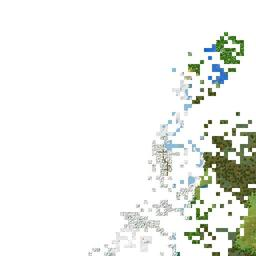
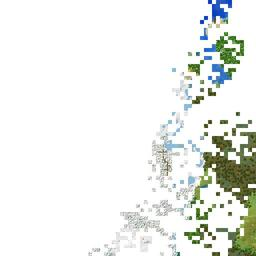
map update

diff --git a/public/unmined/unmined.map.regions.js b/public/unmined/unmined.map.regions.js
@@ -1,6 +1,6 @@
 var UnminedRegions = [
-{ x: 0, z: 0, m: new Uint32Array([1,0,0,0,0,0,0,0,0,0,0,0,0,0,0,0,0,0,0,0,0,0,0,0,0,0,0,0,0,0,0,0,0,0,0,0,0,0,0,0,0,0,0,0,0,0,0,0,0,0,0,0,0,0,0,0,0,0,0,0,0,0,0,0,0,0,0,0,0,0,0,0,0,0,0,0,0,0,0,0,0,0,0,0,0,0,0,0,0,0,0,0,0,0,0,0,0,0,0,0,0,0,0,0,0,0,0,0,0,0,0,0,0,0,0,0,0,0,0,0,0,0,0,0,0,0,0,0,0,0,0,0,0,0,0,0,0,0,0,0,0,0,0,0,0,0,0,0,0,0,0,0,0,0,0,0,0,0,0,0,0,0,0,0,0,0,0,0,0,0,0,0,0,0,0,0,0,0,0,0,0,0,0,0,0,0,0,0,0,0,0,0,0,0,0,0,0,0,0,0,0,0,0,0,0,0,0,0,0,0,0,0,0,0,0,0,0,0,0,0,0,0,0,0,0,0,0,0,0,0,0,0,0,0,0,0,0,0,0,0,0,0,0,0,0,0,0,0,0,0,0,0,0,0,0,0]) },
-{ x: 0, z: -1, m: new Uint32Array([0,0,0,0,0,0,0,0,0,0,0,0,0,0,0,0,0,0,0,0,0,0,0,0,0,0,0,0,0,0,1,3,0,0,0,0,0,0,0,0,0,0,0,0,0,0,0,0,0,0,0,0,0,0,0,0,0,0,0,0,0,0,0,0,0,0,0,0,0,0,0,0,0,0,0,0,0,0,0,0,0,0,0,0,0,0,0,0,0,0,0,0,0,0,0,0,0,0,0,0,0,0,0,0,0,0,0,0,0,0,0,0,0,0,0,0,0,0,0,0,0,0,0,0,0,0,0,0,0,0,0,0,0,0,0,0,0,0,0,0,0,0,0,0,0,0,0,0,0,0,0,0,0,0,0,0,0,0,0,0,0,0,0,0,0,0,0,0,0,0,0,0,0,0,0,0,0,0,0,0,0,0,0,0,0,0,0,0,0,0,0,0,0,0,0,0,0,0,0,0,0,0,0,0,0,0,0,0,0,0,0,0,0,0,0,0,0,0,0,0,0,0,0,0,0,0,0,0,0,0,0,0,0,0,0,0,0,0,0,0,0,0,0,0,0,0,0,0,0,0,0,0,0,0,0,0]) },
+{ x: 0, z: 0, m: new Uint32Array([524289,0,0,0,0,0,0,0,0,0,0,0,0,0,0,0,0,0,786432,524288,0,0,0,0,0,0,0,0,0,0,0,0,0,0,0,0,0,0,0,0,0,0,0,0,0,0,0,0,0,0,0,0,0,0,0,0,0,0,0,0,0,0,0,0,0,0,0,0,0,0,0,0,0,0,0,0,0,0,0,0,0,0,0,0,0,0,0,0,0,0,0,0,0,0,0,0,0,0,0,0,0,0,0,0,0,0,0,0,0,0,0,0,0,0,0,0,0,0,0,0,0,0,0,0,0,0,0,0,0,0,0,0,0,0,0,0,0,0,0,0,0,0,0,0,0,0,0,0,0,0,0,0,0,0,0,0,0,0,0,0,0,0,0,0,0,0,0,0,0,0,0,0,0,0,0,0,0,0,0,0,0,0,0,0,0,0,0,0,0,0,0,0,0,0,0,0,0,0,0,0,0,0,0,0,0,0,0,0,0,0,0,0,0,0,0,0,0,0,0,0,0,0,0,0,0,0,0,0,0,0,0,0,0,0,0,0,0,0,0,0,0,0,0,0,0,0,0,0,0,0,0,0,0,0,0,0]) },
+{ x: 0, z: -1, m: new Uint32Array([0,0,0,0,0,0,0,0,0,0,0,0,0,0,0,0,0,0,0,0,0,0,0,0,0,0,0,0,2,3,1,3,0,0,0,0,0,0,0,0,0,0,0,0,0,0,0,0,0,0,0,0,0,0,0,0,0,0,0,0,0,0,0,0,0,0,0,0,0,0,0,0,0,0,0,0,0,0,0,0,0,0,0,0,0,0,0,0,0,0,0,0,0,0,0,0,0,0,0,0,0,0,0,0,0,0,0,0,0,0,0,0,0,0,0,0,0,0,0,0,0,0,0,0,0,0,0,0,0,0,0,0,0,0,0,0,0,0,0,0,0,0,0,0,0,0,0,0,0,0,0,0,0,0,0,0,0,0,0,0,0,0,0,0,0,0,0,0,0,0,0,0,0,0,0,0,0,0,0,0,0,0,0,0,0,0,0,0,0,0,0,0,0,0,0,0,0,0,0,0,0,0,0,0,0,0,0,0,0,0,0,0,0,0,0,0,0,0,0,0,0,0,0,0,0,0,0,0,0,0,0,0,0,0,0,0,0,0,0,0,0,0,0,0,0,0,0,0,0,0,0,0,0,0,0,0]) },
 { x: -1, z: 0, m: new Uint32Array([3221225472,2147483648,0,0,0,0,0,0,0,0,0,0,0,0,0,0,0,0,0,0,0,0,0,0,0,0,0,0,0,0,0,0,0,0,0,0,0,0,0,0,0,0,0,0,0,0,0,0,0,0,0,0,0,0,0,0,0,0,0,0,0,0,0,0,0,0,0,0,0,0,0,0,0,0,0,0,0,0,0,0,0,0,0,0,0,0,0,0,0,0,0,0,0,0,0,0,0,0,0,0,0,0,0,0,0,0,0,0,0,0,0,0,0,0,0,0,0,0,0,0,0,0,0,0,0,0,0,0,0,0,0,0,0,0,0,0,0,0,0,0,0,0,0,0,0,0,0,0,0,0,0,0,0,0,0,0,0,0,0,0,0,0,0,0,0,0,0,0,0,0,0,0,0,0,0,0,0,0,0,0,0,0,0,0,0,0,0,0,0,0,0,0,0,0,0,0,0,0,0,0,0,0,0,0,0,0,0,0,0,0,0,0,0,0,0,0,0,0,0,0,0,0,0,0,0,0,0,0,0,0,0,0,0,0,0,0,0,0,0,0,0,0,0,0,0,0,0,0,0,0,0,0,0,0,0,0]) },
-{ x: -1, z: -1, m: new Uint32Array([0,0,0,0,0,0,0,0,0,0,0,0,0,0,0,0,0,0,0,0,0,0,0,0,0,0,0,0,0,0,2147483648,3221225472,0,0,0,0,0,0,0,0,0,0,0,0,0,0,0,0,0,0,0,0,0,0,0,0,0,0,0,0,0,0,0,0,0,0,0,0,0,0,0,0,0,0,0,0,0,0,0,0,0,0,0,0,0,0,0,0,0,0,0,0,0,0,0,0,0,0,0,0,0,0,0,0,0,0,0,0,0,0,0,0,0,0,0,0,0,0,0,0,0,0,0,0,0,0,0,0,0,0,0,0,0,0,0,0,0,0,0,0,0,0,0,0,0,0,0,0,0,0,0,0,0,0,0,0,0,0,0,0,0,0,0,0,0,0,0,0,0,0,0,0,0,0,0,0,0,0,0,0,0,0,0,0,0,0,0,0,0,0,0,0,0,0,0,0,0,0,0,0,0,0,0,0,0,0,0,0,0,0,0,0,0,0,0,0,0,0,0,0,0,0,0,0,0,0,0,0,0,0,0,0,0,0,0,0,0,0,0,0,0,0,0,0,0,0,0,0,0,0,0,0,0,0,0,0]) },
+{ x: -1, z: -1, m: new Uint32Array([0,0,0,0,0,0,0,0,0,0,0,0,0,0,0,0,0,0,0,0,0,0,0,0,0,0,0,0,0,2147483648,2147483648,3221225472,0,0,0,0,0,0,0,0,0,0,0,0,0,0,0,0,0,0,0,0,0,0,0,0,0,0,0,0,0,0,0,0,0,0,0,0,0,0,0,0,0,0,0,0,0,0,0,0,0,0,0,0,0,0,0,0,0,0,0,0,0,0,0,0,0,0,0,0,0,0,0,0,0,0,0,0,0,0,0,0,0,0,0,0,0,0,0,0,0,0,0,0,0,0,0,0,0,0,0,0,0,0,0,0,0,0,0,0,0,0,0,0,0,0,0,0,0,0,0,0,0,0,0,0,0,0,0,0,0,0,0,0,0,0,0,0,0,0,0,0,0,0,0,0,0,0,0,0,0,0,0,0,0,0,0,0,0,0,0,0,0,0,0,0,0,0,0,0,0,0,0,0,0,0,0,0,0,0,0,0,0,0,0,0,0,0,0,0,0,0,0,0,0,0,0,0,0,0,0,0,0,0,0,0,0,0,0,0,0,0,0,0,0,0,0,0,0,0,0,0,0,0,0,0]) },
 ];

diff --git a/public/unmined/unmined.map.properties.js b/public/unmined/unmined.map.properties.js
@@ -5,9 +5,9 @@ var UnminedMapProperties = {
     defaultZoom: 0,
     imageFormat: "jpeg",
     minRegionX: -2,
-    minRegionZ: -2,
-    maxRegionX: 1,
-    maxRegionZ: 1,
+    minRegionZ: -4,
+    maxRegionX: 19,
+    maxRegionZ: 19,
     worldName: "Bedrock level",
     background: "",
     markers: new Array()
